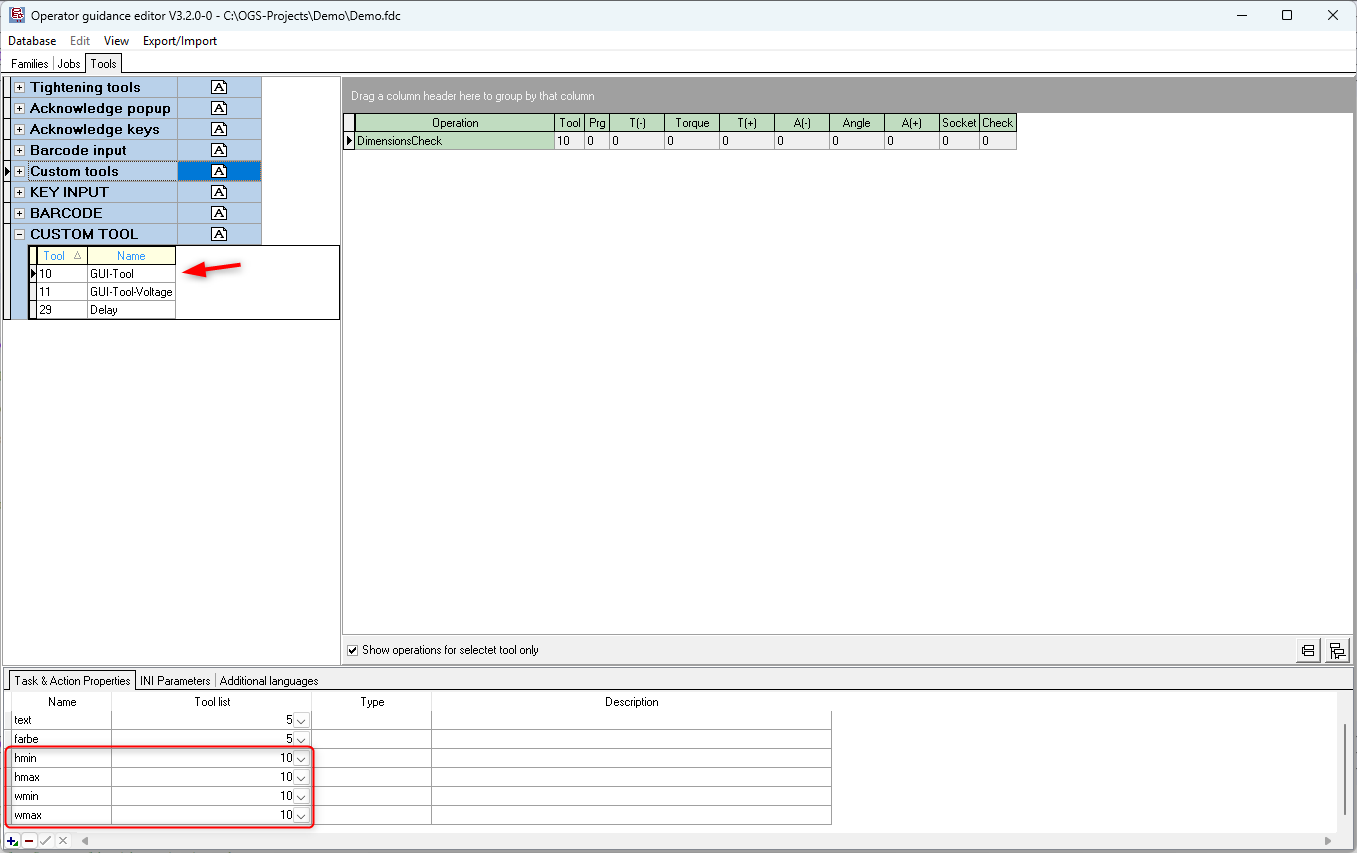
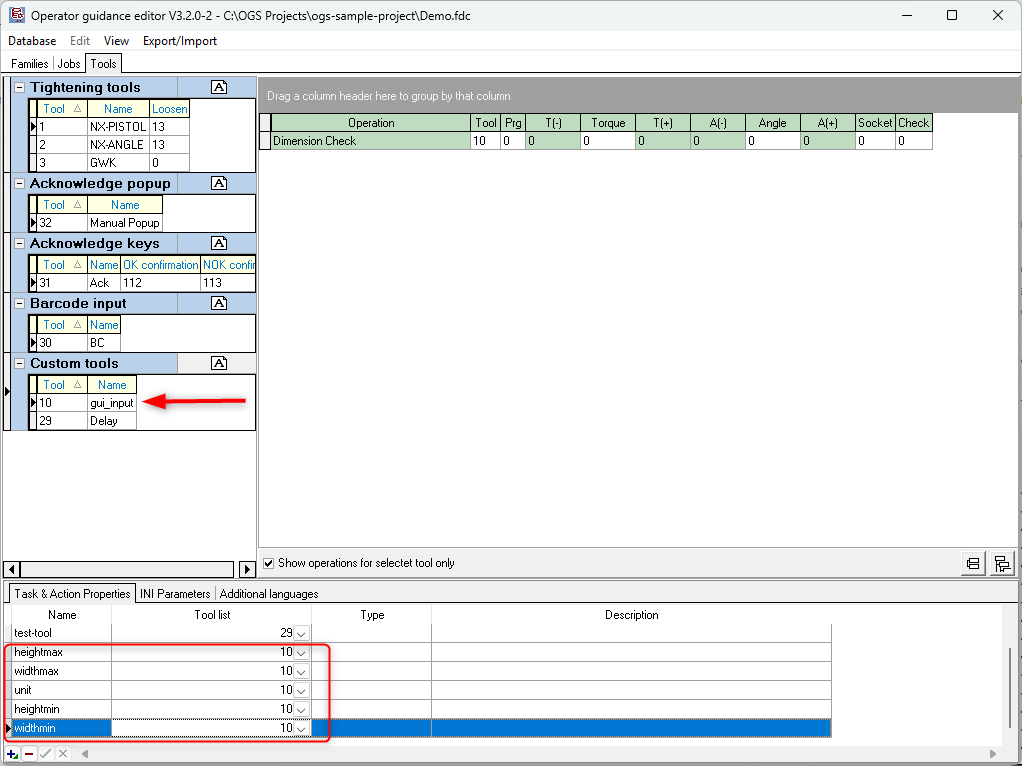
Modified GUI Input Tool documentation with better images and info

diff --git a/docs/tools/misc/gui-input.md b/docs/tools/misc/gui-input.md
@@ -35,12 +35,8 @@ heLuaTool.dll=1
 [LuaTool_GUI_Input]
 DRIVER=heLuaTool
 TYPE=gui_input
-Param1 = { "name": "Param 1 m2:", "type": 'float', "default": '250', "min": 'heightmin', "max": 'heightmax'}
-Param2 = { "name": "Param 2 m2:", "type": 'float', "default": '0', "min": 'widthmin', "max": 'widthmax'}
-Param3 = { "name": "Param 3 m2:", "type": 'int', "default": '0', "min": 'vmin', "max": 'vmax'}
-Param4 = { "name": "Param 4 m2:", "type": 'int', "default": '0', "min": 'v1min', "max": 'v1max'}
-Param5 = { "name": "Param 5 m2:", "type": 'float', "default": '300', "min": 'v2min', "max": 'v2max'}
-Param6 = { "name": "Param 6 m2:", "type": 'float', "default": '0', "min": 'v2min', "max": 'v2max'}
+Param1 = { "name": "Height:", "type": 'float', "default": '250', "min": 'heightmin', "max": 'heightmax'}
+Param2 = { "name": "Width:", "type": 'float', "default": '0', "min": 'widthmin', "max": 'widthmax'}
 ```
 
 The typical parameters are:
@@ -54,7 +50,9 @@ The typical parameters are:
 
 ## Editor Configuration
 
-- **Creating a Tool**: In the Tools section of the Editor, create a new tool with a name of your choice and assign it to the appropriate channel (ensure the channel number matches the one specified in the `station.ini` file). Next, under the Task & Action Properties section, create new properties for the minimum and maximum limits, and link these properties to the tool.
+- **Creating a Tool**: In the Tools section of the Editor, create a new tool with a name of your choice and assign it to the appropriate channel (ensure the channel number matches the one specified in the `station.ini` file). Next, under the Task & Action Properties section, create new properties for the minimum and maximum limits, along with the measurement `unit`, and link these properties to the tool.
+
+**⚠ Important:** The property names must exactly match those specified in the `station.ini` file; otherwise, the limit checks will not function correctly.
 
 ![gui_input_job](resources/gui_input_tool.png)
 
